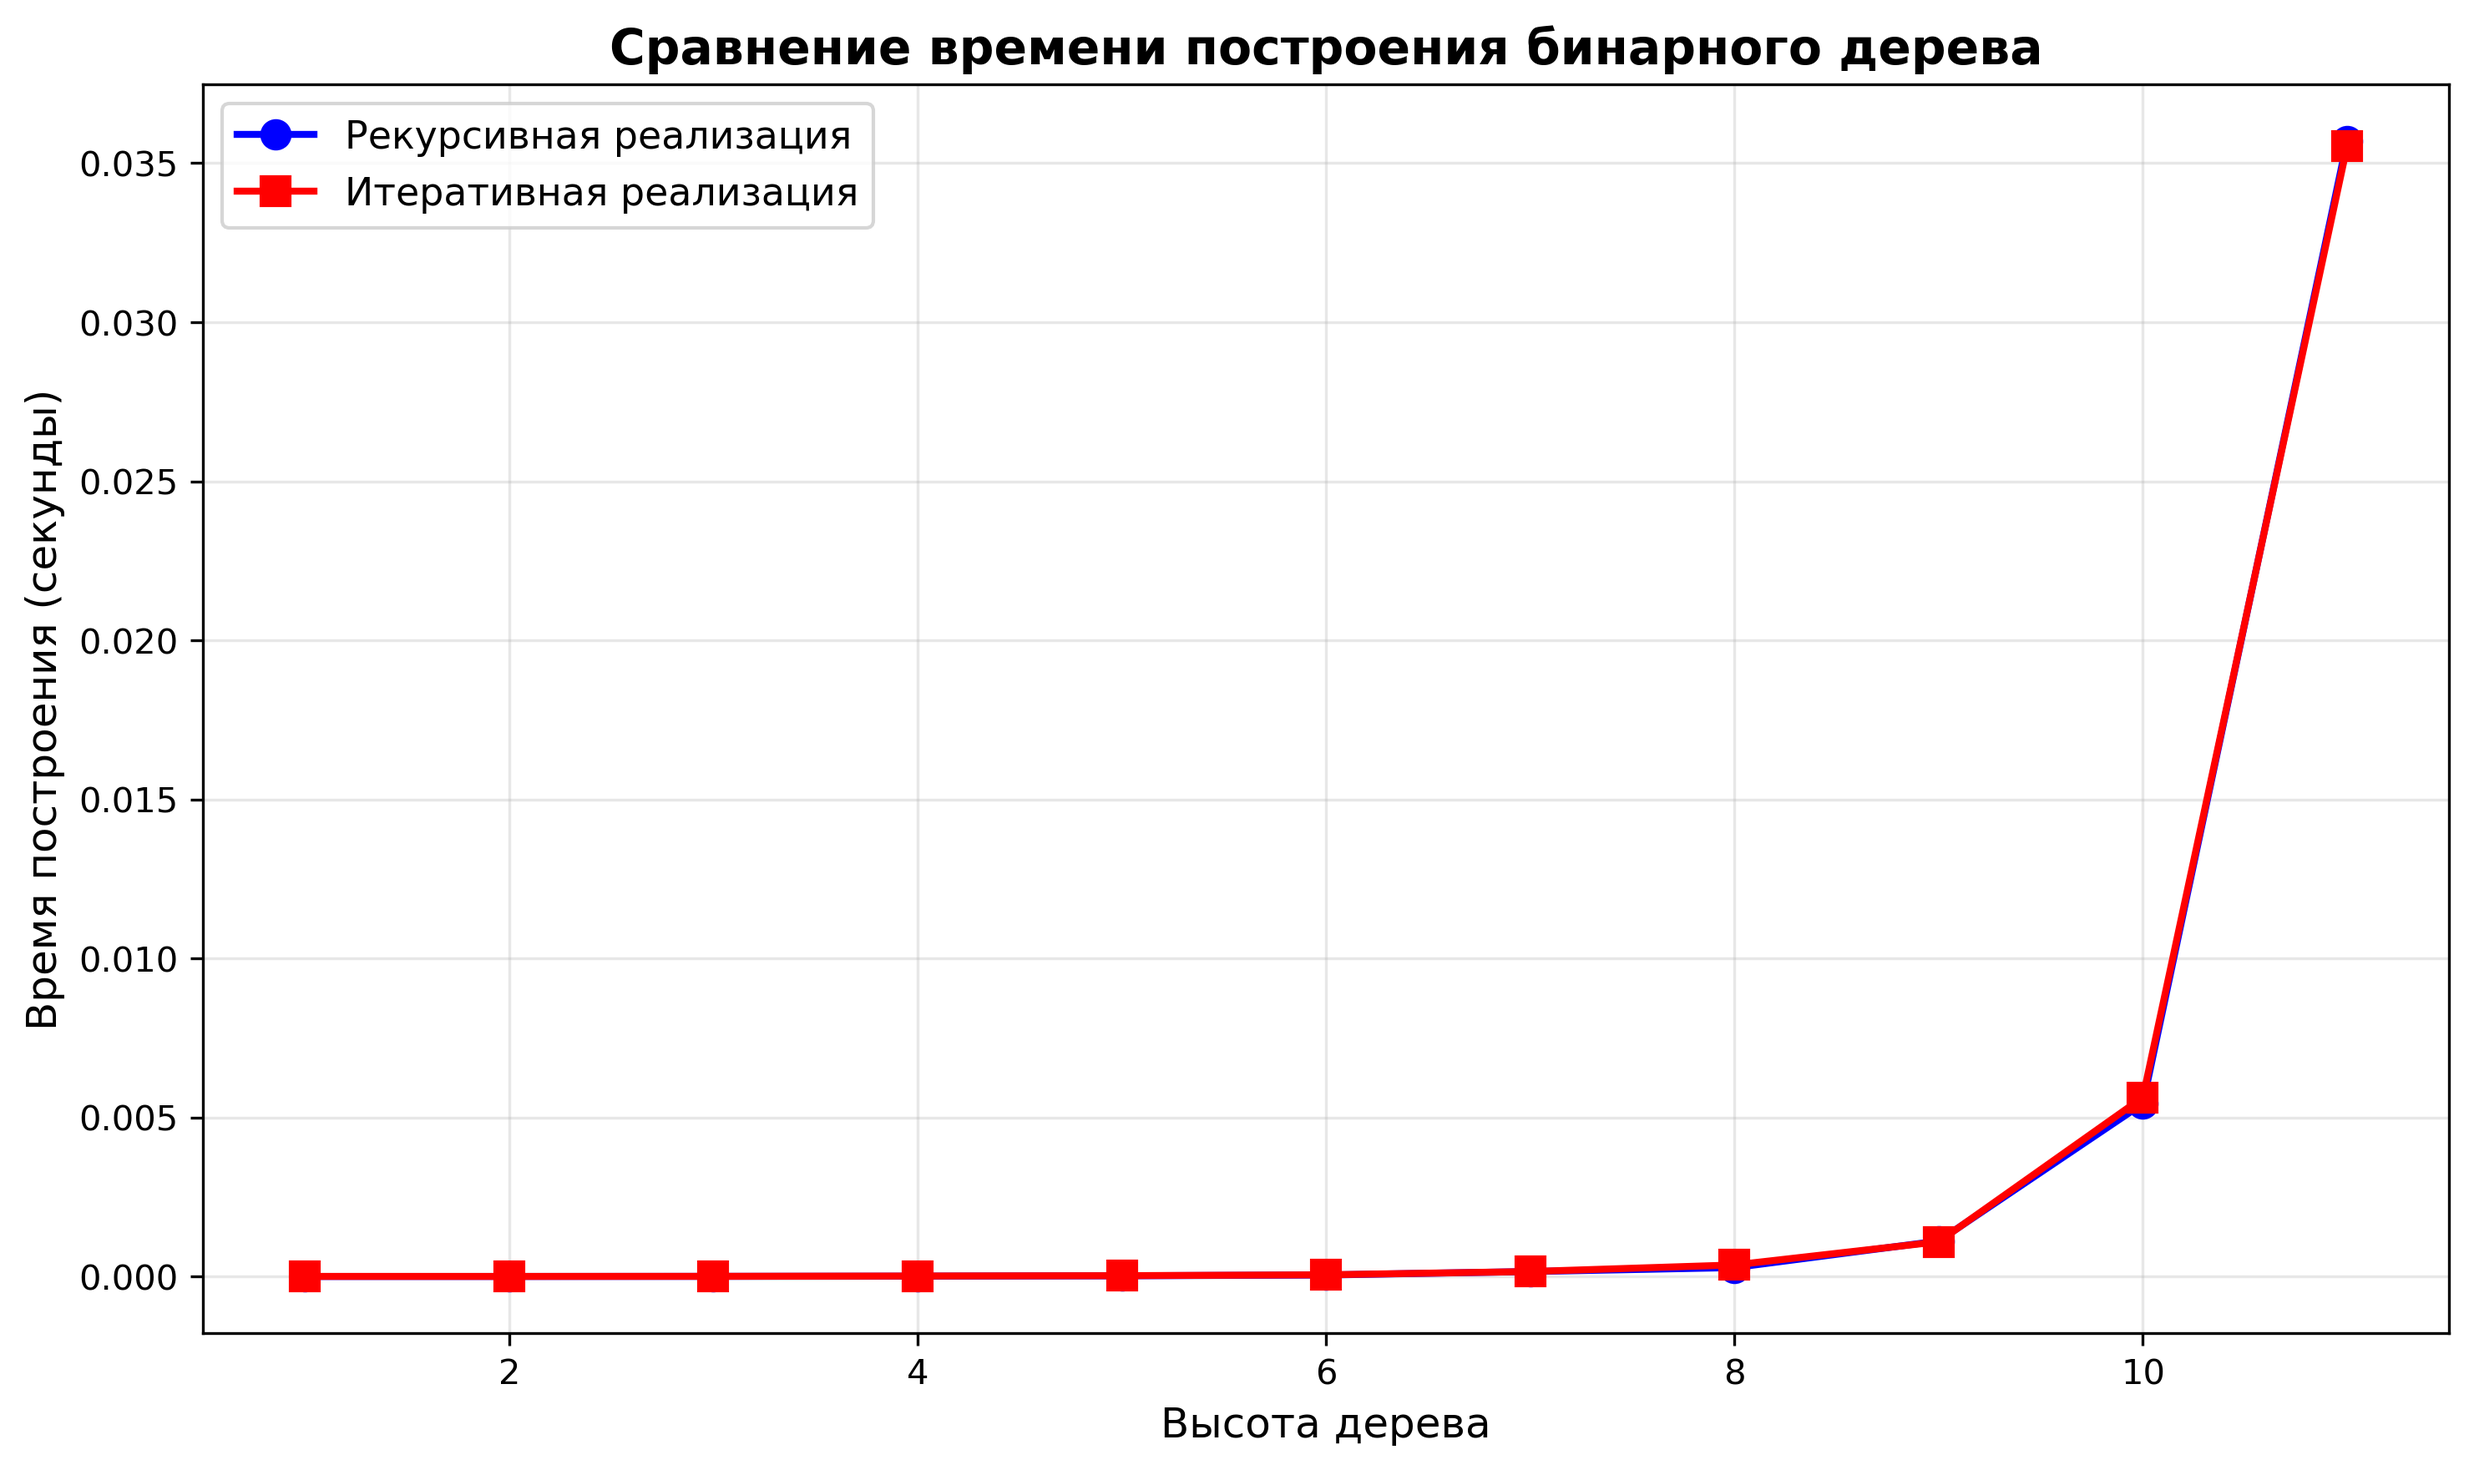
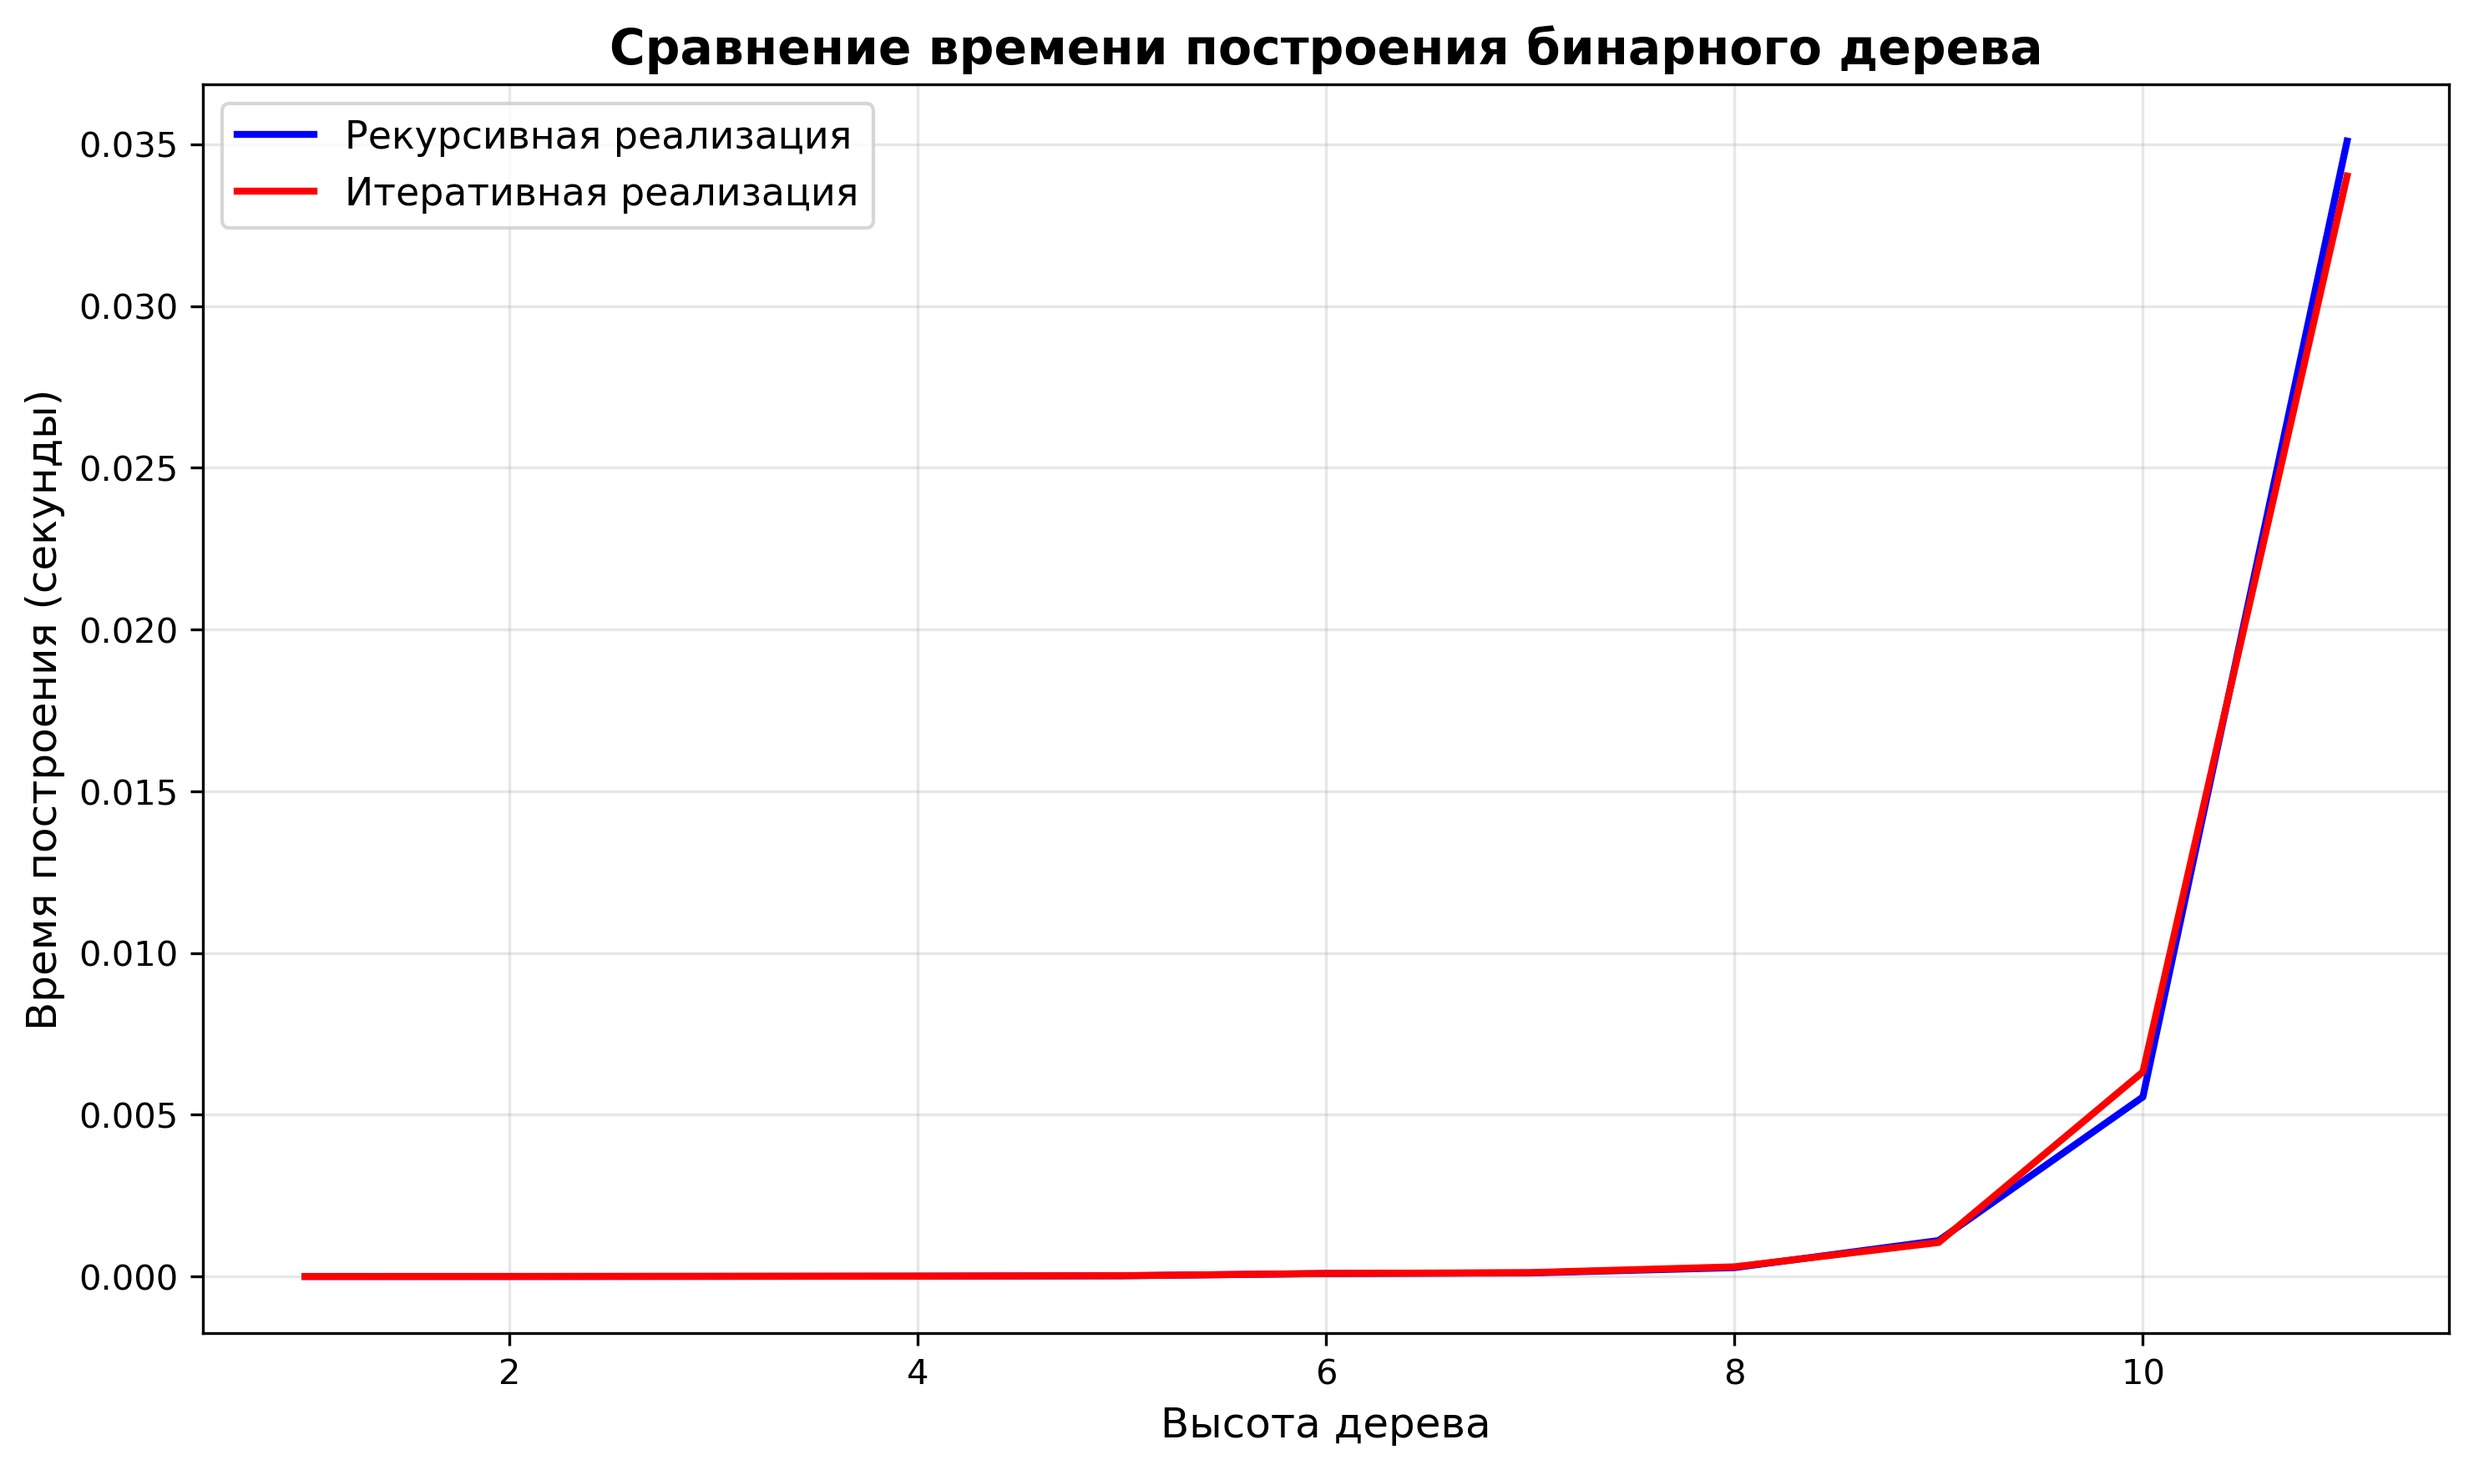
1

diff --git a/Lab_6/Lab6.py b/Lab_6/Lab6.py
@@ -83,8 +83,8 @@ def main():
     # Создание графика в линейном масштабе
     plt.figure(figsize=(10, 6))
     
-    plt.plot(heights, recursive_times, 'b-o', label='Рекурсивная реализация', linewidth=2, markersize=8)
-    plt.plot(heights, iterative_times, 'r-s', label='Итеративная реализация', linewidth=2, markersize=8)
+    plt.plot(heights, recursive_times, 'b-', label='Рекурсивная реализация', linewidth=2, markersize=8)
+    plt.plot(heights, iterative_times, 'r-', label='Итеративная реализация', linewidth=2, markersize=8)
     
     plt.xlabel('Высота дерева', fontsize=12)
     plt.ylabel('Время построения (секунды)', fontsize=12)
